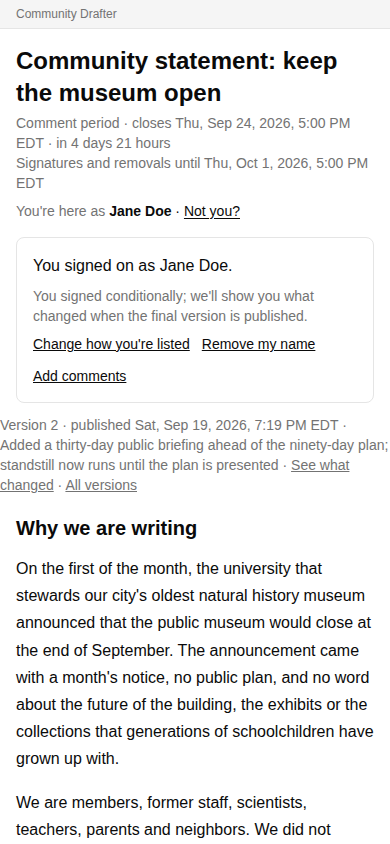
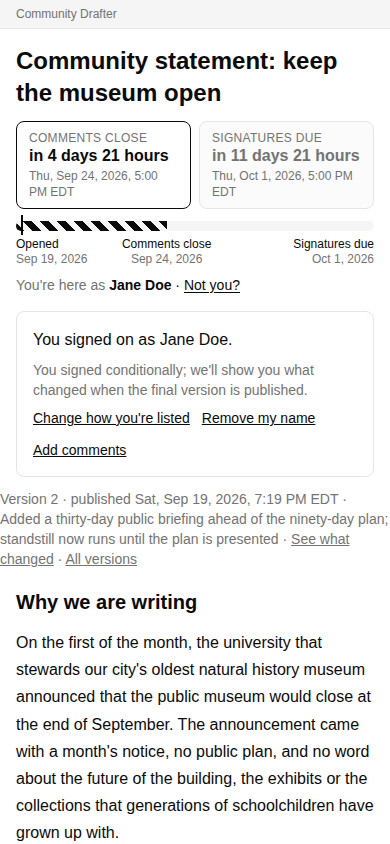
chore(plans): mark timeline-clock done (PR #24); refresh homepage screenshots
Claude-Session: https://claude.ai/code/session_0178WPJgRasbvmBMfUHauW12

Changed region(s): [[0.0, 0.1232, 1.0, 1.0], [0.7385, 0.2773, 0.9538, 0.3081]]

diff --git a/plans/timeline-clock.md b/plans/timeline-clock.md
@@ -1,5 +1,6 @@
 ---
-status: planned
+status: done
+pr: 24
 depends: []
 specs:
   - specs/screens/document.md
@@ -21,16 +22,16 @@ Replace the text-only phase line on the participant and public document headers 
 3. Component tests for commenting, signing, closed, withdrawn and not-yet-open from fixture documents; snapshot of chip text.
 
 ## Validation
-- [ ] The three phases render the correct active segment and chip texts from fixtures; a passed deadline reads "closed", never a negative countdown.
-- [ ] No color-only state: segment states are distinguishable in a grayscale screenshot.
-- [ ] Phone width (390 px) shows the full track and both chips without horizontal overflow.
-- [ ] Bundle-size check still passes.
+- [x] The three phases render the correct active segment and chip texts from fixtures; a passed deadline reads "closed", never a negative countdown (`Timeline.test.tsx`).
+- [x] No color-only state: done is solid, active is striped, pending is empty; verified on the live page screenshot.
+- [x] Phone width (390 px) shows the full track and both chips without horizontal overflow (live screenshot after deploy).
+- [x] Bundle-size check still passes (93.3 KB gzip of 120 KB).
 
 ## Risks / unknowns
 - **Missing `opened_at`** on documents opened before the field existed: fall back to the first version's publish time.
 
 ## Notes
-(closeout)
+- The now marker sits near the left edge early in a comment period because positions are proportional to time; that is intended and reads correctly once a day or two has passed.
 
 ## Follow-ups
-(closeout)
+None.
